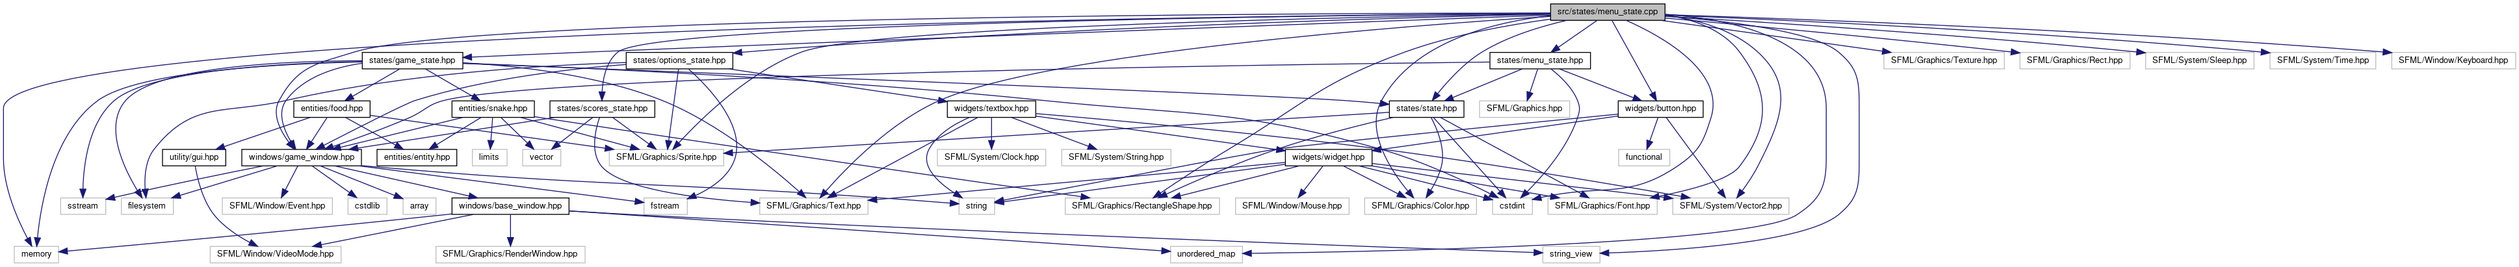
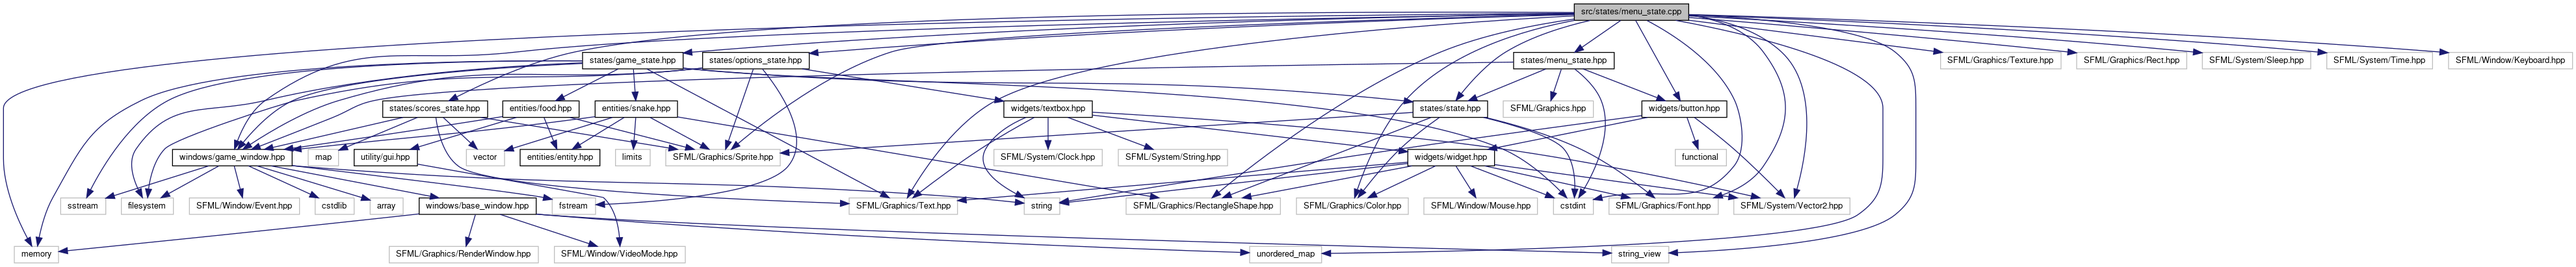
Update docs

diff --git a/docs/scores__state_8hpp_source.html b/docs/scores__state_8hpp_source.html
@@ -94,52 +94,63 @@ $(function() {
 <div class="line"><a name="l00028"></a><span class="lineno">   28</span>&#160; </div>
 <div class="line"><a name="l00029"></a><span class="lineno">   29</span>&#160;<span class="comment">// STD</span></div>
 <div class="line"><a name="l00030"></a><span class="lineno">   30</span>&#160;<span class="preprocessor">#include &lt;vector&gt;</span></div>
-<div class="line"><a name="l00031"></a><span class="lineno">   31</span>&#160; </div>
-<div class="line"><a name="l00032"></a><span class="lineno">   32</span>&#160;<span class="keyword">namespace </span><a class="code" href="namespacesnake_1_1state.html">snake::state</a>{</div>
-<div class="line"><a name="l00033"></a><span class="lineno">   33</span>&#160; </div>
-<div class="line"><a name="l00034"></a><span class="lineno">   34</span>&#160;    <span class="comment">//====================================================</span></div>
-<div class="line"><a name="l00035"></a><span class="lineno">   35</span>&#160;    <span class="comment">//     OptionsState</span></div>
-<div class="line"><a name="l00036"></a><span class="lineno">   36</span>&#160;    <span class="comment">//====================================================</span></div>
-<div class="line"><a name="l00041"></a><span class="lineno"><a class="line" href="classsnake_1_1state_1_1ScoresState.html">   41</a></span>&#160;<span class="comment"></span>    <span class="keyword">class </span><a class="code" href="classsnake_1_1state_1_1ScoresState.html">ScoresState</a>: <span class="keyword">public</span> <a class="code" href="classsnake_1_1state_1_1State.html">State</a>{</div>
-<div class="line"><a name="l00042"></a><span class="lineno">   42</span>&#160; </div>
-<div class="line"><a name="l00043"></a><span class="lineno">   43</span>&#160;        <span class="comment">//====================================================</span></div>
-<div class="line"><a name="l00044"></a><span class="lineno">   44</span>&#160;        <span class="comment">//     Public</span></div>
-<div class="line"><a name="l00045"></a><span class="lineno">   45</span>&#160;        <span class="comment">//====================================================</span></div>
-<div class="line"><a name="l00046"></a><span class="lineno">   46</span>&#160;        <span class="keyword">public</span>:</div>
-<div class="line"><a name="l00047"></a><span class="lineno">   47</span>&#160; </div>
-<div class="line"><a name="l00048"></a><span class="lineno">   48</span>&#160;            <span class="comment">// Constructors</span></div>
-<div class="line"><a name="l00049"></a><span class="lineno">   49</span>&#160;            <a class="code" href="classsnake_1_1state_1_1ScoresState.html#a54d0f8285bfaeec32e8f9e473cd1569e">ScoresState</a>( <a class="code" href="classsnake_1_1window_1_1GameWindow.html">window::GameWindow</a>* game_window );</div>
-<div class="line"><a name="l00050"></a><span class="lineno">   50</span>&#160; </div>
-<div class="line"><a name="l00051"></a><span class="lineno">   51</span>&#160;            <span class="comment">// Methods</span></div>
-<div class="line"><a name="l00052"></a><span class="lineno">   52</span>&#160;            <span class="keywordtype">void</span> <a class="code" href="classsnake_1_1state_1_1ScoresState.html#a06364af438238b8dfb681b1bf95ef826">drawState</a>() <span class="keyword">override</span>;</div>
-<div class="line"><a name="l00053"></a><span class="lineno">   53</span>&#160; </div>
-<div class="line"><a name="l00054"></a><span class="lineno">   54</span>&#160;        <span class="comment">//====================================================</span></div>
-<div class="line"><a name="l00055"></a><span class="lineno">   55</span>&#160;        <span class="comment">//     Private</span></div>
-<div class="line"><a name="l00056"></a><span class="lineno">   56</span>&#160;        <span class="comment">//====================================================</span></div>
-<div class="line"><a name="l00057"></a><span class="lineno">   57</span>&#160;        <span class="keyword">private</span>:</div>
-<div class="line"><a name="l00058"></a><span class="lineno">   58</span>&#160; </div>
-<div class="line"><a name="l00059"></a><span class="lineno">   59</span>&#160;            <span class="comment">// Methods</span></div>
-<div class="line"><a name="l00060"></a><span class="lineno">   60</span>&#160;            <span class="keywordtype">void</span> drawImg();</div>
-<div class="line"><a name="l00061"></a><span class="lineno">   61</span>&#160;            <span class="keywordtype">void</span> drawWidgets() <span class="keyword">override</span>;</div>
-<div class="line"><a name="l00062"></a><span class="lineno">   62</span>&#160;            <span class="keywordtype">void</span> packWidgets() <span class="keyword">override</span>;</div>
-<div class="line"><a name="l00063"></a><span class="lineno">   63</span>&#160; </div>
-<div class="line"><a name="l00064"></a><span class="lineno">   64</span>&#160;            <span class="comment">// Variables</span></div>
-<div class="line"><a name="l00065"></a><span class="lineno">   65</span>&#160;            <a class="code" href="classsnake_1_1window_1_1GameWindow.html">window::GameWindow</a>* game_window;</div>
-<div class="line"><a name="l00066"></a><span class="lineno">   66</span>&#160;            sf::Text back_to_menu;</div>
-<div class="line"><a name="l00067"></a><span class="lineno">   67</span>&#160;            std::vector&lt;uint64_t&gt; scores;</div>
-<div class="line"><a name="l00068"></a><span class="lineno">   68</span>&#160;            sf::Sprite gold_trophy;</div>
-<div class="line"><a name="l00069"></a><span class="lineno">   69</span>&#160;            sf::Sprite silver_trophy;</div>
-<div class="line"><a name="l00070"></a><span class="lineno">   70</span>&#160;            sf::Sprite bronze_trophy;</div>
-<div class="line"><a name="l00071"></a><span class="lineno">   71</span>&#160; </div>
-<div class="line"><a name="l00072"></a><span class="lineno">   72</span>&#160;            <span class="comment">// Constants</span></div>
-<div class="line"><a name="l00073"></a><span class="lineno">   73</span>&#160;            <span class="keyword">const</span> uint64_t game_window_size_x = <span class="keyword">this</span> -&gt; game_window -&gt; getSize().x;</div>
-<div class="line"><a name="l00074"></a><span class="lineno">   74</span>&#160;            <span class="keyword">const</span> uint64_t game_window_size_y = <span class="keyword">this</span> -&gt; game_window -&gt; getSize().y;</div>
-<div class="line"><a name="l00075"></a><span class="lineno">   75</span>&#160;    };</div>
-<div class="line"><a name="l00076"></a><span class="lineno">   76</span>&#160;}</div>
-<div class="line"><a name="l00077"></a><span class="lineno">   77</span>&#160; </div>
-<div class="line"><a name="l00078"></a><span class="lineno">   78</span>&#160;<span class="preprocessor">#endif</span></div>
-<div class="ttc" id="aclasssnake_1_1state_1_1ScoresState_html"><div class="ttname"><a href="classsnake_1_1state_1_1ScoresState.html">snake::state::ScoresState</a></div><div class="ttdoc">Class used to create the scores menu.</div><div class="ttdef"><b>Definition:</b> scores_state.hpp:41</div></div>
-<div class="ttc" id="aclasssnake_1_1state_1_1ScoresState_html_a06364af438238b8dfb681b1bf95ef826"><div class="ttname"><a href="classsnake_1_1state_1_1ScoresState.html#a06364af438238b8dfb681b1bf95ef826">snake::state::ScoresState::drawState</a></div><div class="ttdeci">void drawState() override</div><div class="ttdoc">Method used to draw the current state.</div><div class="ttdef"><b>Definition:</b> scores_state.cpp:74</div></div>
+<div class="line"><a name="l00031"></a><span class="lineno">   31</span>&#160;<span class="preprocessor">#include &lt;map&gt;</span></div>
+<div class="line"><a name="l00032"></a><span class="lineno">   32</span>&#160; </div>
+<div class="line"><a name="l00033"></a><span class="lineno">   33</span>&#160;<span class="keyword">namespace </span><a class="code" href="namespacesnake_1_1state.html">snake::state</a>{</div>
+<div class="line"><a name="l00034"></a><span class="lineno">   34</span>&#160; </div>
+<div class="line"><a name="l00035"></a><span class="lineno">   35</span>&#160;    <span class="comment">//====================================================</span></div>
+<div class="line"><a name="l00036"></a><span class="lineno">   36</span>&#160;    <span class="comment">//     OptionsState</span></div>
+<div class="line"><a name="l00037"></a><span class="lineno">   37</span>&#160;    <span class="comment">//====================================================</span></div>
+<div class="line"><a name="l00042"></a><span class="lineno"><a class="line" href="classsnake_1_1state_1_1ScoresState.html">   42</a></span>&#160;<span class="comment"></span>    <span class="keyword">class </span><a class="code" href="classsnake_1_1state_1_1ScoresState.html">ScoresState</a>: <span class="keyword">public</span> <a class="code" href="classsnake_1_1state_1_1State.html">State</a>{</div>
+<div class="line"><a name="l00043"></a><span class="lineno">   43</span>&#160; </div>
+<div class="line"><a name="l00044"></a><span class="lineno">   44</span>&#160;        <span class="comment">//====================================================</span></div>
+<div class="line"><a name="l00045"></a><span class="lineno">   45</span>&#160;        <span class="comment">//     Public</span></div>
+<div class="line"><a name="l00046"></a><span class="lineno">   46</span>&#160;        <span class="comment">//====================================================</span></div>
+<div class="line"><a name="l00047"></a><span class="lineno">   47</span>&#160;        <span class="keyword">public</span>:</div>
+<div class="line"><a name="l00048"></a><span class="lineno">   48</span>&#160; </div>
+<div class="line"><a name="l00049"></a><span class="lineno">   49</span>&#160;            <span class="comment">// Constructors</span></div>
+<div class="line"><a name="l00050"></a><span class="lineno">   50</span>&#160;            <a class="code" href="classsnake_1_1state_1_1ScoresState.html#a54d0f8285bfaeec32e8f9e473cd1569e">ScoresState</a>( <a class="code" href="classsnake_1_1window_1_1GameWindow.html">window::GameWindow</a>* game_window );</div>
+<div class="line"><a name="l00051"></a><span class="lineno">   51</span>&#160; </div>
+<div class="line"><a name="l00052"></a><span class="lineno">   52</span>&#160;            <span class="comment">// Methods</span></div>
+<div class="line"><a name="l00053"></a><span class="lineno">   53</span>&#160;            <span class="keywordtype">void</span> <a class="code" href="classsnake_1_1state_1_1ScoresState.html#a06364af438238b8dfb681b1bf95ef826">drawState</a>() <span class="keyword">override</span>;</div>
+<div class="line"><a name="l00054"></a><span class="lineno">   54</span>&#160; </div>
+<div class="line"><a name="l00055"></a><span class="lineno">   55</span>&#160;        <span class="comment">//====================================================</span></div>
+<div class="line"><a name="l00056"></a><span class="lineno">   56</span>&#160;        <span class="comment">//     Private</span></div>
+<div class="line"><a name="l00057"></a><span class="lineno">   57</span>&#160;        <span class="comment">//====================================================</span></div>
+<div class="line"><a name="l00058"></a><span class="lineno">   58</span>&#160;        <span class="keyword">private</span>:</div>
+<div class="line"><a name="l00059"></a><span class="lineno">   59</span>&#160; </div>
+<div class="line"><a name="l00060"></a><span class="lineno">   60</span>&#160;            <span class="comment">// Methods</span></div>
+<div class="line"><a name="l00061"></a><span class="lineno">   61</span>&#160;            <span class="keywordtype">void</span> drawImg();</div>
+<div class="line"><a name="l00062"></a><span class="lineno">   62</span>&#160;            <span class="keywordtype">void</span> drawWidgets() <span class="keyword">override</span>;</div>
+<div class="line"><a name="l00063"></a><span class="lineno">   63</span>&#160;            <span class="keywordtype">void</span> packWidgets() <span class="keyword">override</span>;</div>
+<div class="line"><a name="l00064"></a><span class="lineno">   64</span>&#160;            std::multimap&lt;uint64_t, std::string, std::greater&lt;int64_t&gt;&gt; getScoresMap();</div>
+<div class="line"><a name="l00065"></a><span class="lineno">   65</span>&#160;            <span class="keywordtype">void</span> initStrings();</div>
+<div class="line"><a name="l00066"></a><span class="lineno">   66</span>&#160; </div>
+<div class="line"><a name="l00067"></a><span class="lineno">   67</span>&#160;            <span class="comment">// Variables</span></div>
+<div class="line"><a name="l00068"></a><span class="lineno">   68</span>&#160;            <a class="code" href="classsnake_1_1window_1_1GameWindow.html">window::GameWindow</a>* game_window;</div>
+<div class="line"><a name="l00069"></a><span class="lineno">   69</span>&#160;            sf::Text back_to_menu;</div>
+<div class="line"><a name="l00070"></a><span class="lineno">   70</span>&#160;            sf::Text first_player;</div>
+<div class="line"><a name="l00071"></a><span class="lineno">   71</span>&#160;            sf::Text second_player;</div>
+<div class="line"><a name="l00072"></a><span class="lineno">   72</span>&#160;            sf::Text third_player;</div>
+<div class="line"><a name="l00073"></a><span class="lineno">   73</span>&#160;            std::multimap&lt;uint64_t, std::string, std::greater&lt;int64_t&gt;&gt; scores_map;</div>
+<div class="line"><a name="l00074"></a><span class="lineno">   74</span>&#160;            sf::Sprite gold_trophy;</div>
+<div class="line"><a name="l00075"></a><span class="lineno">   75</span>&#160;            sf::Sprite silver_trophy;</div>
+<div class="line"><a name="l00076"></a><span class="lineno">   76</span>&#160;            sf::Sprite bronze_trophy;</div>
+<div class="line"><a name="l00077"></a><span class="lineno">   77</span>&#160;            sf::Sprite title;</div>
+<div class="line"><a name="l00078"></a><span class="lineno">   78</span>&#160;            std::string string_first;</div>
+<div class="line"><a name="l00079"></a><span class="lineno">   79</span>&#160;            std::string string_second;</div>
+<div class="line"><a name="l00080"></a><span class="lineno">   80</span>&#160;            std::string string_third;</div>
+<div class="line"><a name="l00081"></a><span class="lineno">   81</span>&#160;            std::multimap&lt;uint64_t, std::string, std::greater&lt;int64_t&gt;&gt;::iterator iterator;</div>
+<div class="line"><a name="l00082"></a><span class="lineno">   82</span>&#160; </div>
+<div class="line"><a name="l00083"></a><span class="lineno">   83</span>&#160;            <span class="comment">// Constants</span></div>
+<div class="line"><a name="l00084"></a><span class="lineno">   84</span>&#160;            <span class="keyword">const</span> uint64_t game_window_size_x = <span class="keyword">this</span> -&gt; game_window -&gt; getSize().x;</div>
+<div class="line"><a name="l00085"></a><span class="lineno">   85</span>&#160;            <span class="keyword">const</span> uint64_t game_window_size_y = <span class="keyword">this</span> -&gt; game_window -&gt; getSize().y;</div>
+<div class="line"><a name="l00086"></a><span class="lineno">   86</span>&#160;    };</div>
+<div class="line"><a name="l00087"></a><span class="lineno">   87</span>&#160;}</div>
+<div class="line"><a name="l00088"></a><span class="lineno">   88</span>&#160; </div>
+<div class="line"><a name="l00089"></a><span class="lineno">   89</span>&#160;<span class="preprocessor">#endif</span></div>
+<div class="ttc" id="aclasssnake_1_1state_1_1ScoresState_html"><div class="ttname"><a href="classsnake_1_1state_1_1ScoresState.html">snake::state::ScoresState</a></div><div class="ttdoc">Class used to create the scores menu.</div><div class="ttdef"><b>Definition:</b> scores_state.hpp:42</div></div>
+<div class="ttc" id="aclasssnake_1_1state_1_1ScoresState_html_a06364af438238b8dfb681b1bf95ef826"><div class="ttname"><a href="classsnake_1_1state_1_1ScoresState.html#a06364af438238b8dfb681b1bf95ef826">snake::state::ScoresState::drawState</a></div><div class="ttdeci">void drawState() override</div><div class="ttdoc">Method used to draw the current state.</div><div class="ttdef"><b>Definition:</b> scores_state.cpp:113</div></div>
 <div class="ttc" id="aclasssnake_1_1state_1_1ScoresState_html_a54d0f8285bfaeec32e8f9e473cd1569e"><div class="ttname"><a href="classsnake_1_1state_1_1ScoresState.html#a54d0f8285bfaeec32e8f9e473cd1569e">snake::state::ScoresState::ScoresState</a></div><div class="ttdeci">ScoresState(window::GameWindow *game_window)</div><div class="ttdoc">Constructor of the ScoresState class.</div><div class="ttdef"><b>Definition:</b> scores_state.cpp:56</div></div>
 <div class="ttc" id="aclasssnake_1_1state_1_1State_html"><div class="ttname"><a href="classsnake_1_1state_1_1State.html">snake::state::State</a></div><div class="ttdoc">Class used to define base state for the other states.</div><div class="ttdef"><b>Definition:</b> state.hpp:45</div></div>
 <div class="ttc" id="aclasssnake_1_1window_1_1GameWindow_html"><div class="ttname"><a href="classsnake_1_1window_1_1GameWindow.html">snake::window::GameWindow</a></div><div class="ttdoc">Class used to create the game window.</div><div class="ttdef"><b>Definition:</b> game_window.hpp:45</div></div>

diff --git a/docs/menu__state_8cpp.html b/docs/menu__state_8cpp.html
@@ -100,52 +100,53 @@ Include dependency graph for menu_state.cpp:</div>
 <div class="dyncontent">
 <div class="center"><img src="menu__state_8cpp__incl.png" border="0" usemap="#asrc_2states_2menu__state_8cpp" alt=""/></div>
 <map name="asrc_2states_2menu__state_8cpp" id="asrc_2states_2menu__state_8cpp">
-<area shape="rect" title=" " alt="" coords="2385,5,2561,32"/>
-<area shape="rect" href="game__window_8hpp.html" title=" " alt="" coords="372,229,556,256"/>
+<area shape="rect" title=" " alt="" coords="2421,5,2597,32"/>
+<area shape="rect" href="game__window_8hpp.html" title=" " alt="" coords="265,229,449,256"/>
 <area shape="rect" title=" " alt="" coords="22,379,90,405"/>
-<area shape="rect" title=" " alt="" coords="1801,379,1911,405"/>
-<area shape="rect" title=" " alt="" coords="2373,379,2461,405"/>
-<area shape="rect" href="state_8hpp.html" title=" " alt="" coords="2137,155,2252,181"/>
-<area shape="rect" title=" " alt="" coords="2099,304,2271,331"/>
-<area shape="rect" title=" " alt="" coords="2381,304,2549,331"/>
-<area shape="rect" title=" " alt="" coords="937,229,1113,256"/>
-<area shape="rect" title=" " alt="" coords="1639,304,1876,331"/>
-<area shape="rect" title=" " alt="" coords="2296,304,2357,331"/>
-<area shape="rect" href="menu__state_8hpp.html" title=" " alt="" coords="2292,80,2447,107"/>
-<area shape="rect" href="button_8hpp.html" title=" " alt="" coords="2489,155,2620,181"/>
-<area shape="rect" title=" " alt="" coords="1169,304,1335,331"/>
-<area shape="rect" title=" " alt="" coords="2573,304,2752,331"/>
-<area shape="rect" href="game__state_8hpp.html" title=" " alt="" coords="557,80,712,107"/>
-<area shape="rect" href="options__state_8hpp.html" title=" " alt="" coords="963,80,1127,107"/>
-<area shape="rect" href="scores__state_8hpp.html" title=" " alt="" coords="846,155,1007,181"/>
-<area shape="rect" title=" " alt="" coords="2898,80,3083,107"/>
-<area shape="rect" title=" " alt="" coords="3107,80,3277,107"/>
-<area shape="rect" title=" " alt="" coords="3301,80,3467,107"/>
-<area shape="rect" title=" " alt="" coords="3492,80,3655,107"/>
-<area shape="rect" title=" " alt="" coords="3679,80,3870,107"/>
-<area shape="rect" href="base__window_8hpp.html" title=" " alt="" coords="695,304,875,331"/>
-<area shape="rect" title=" " alt="" coords="342,304,511,331"/>
+<area shape="rect" title=" " alt="" coords="1922,379,2033,405"/>
+<area shape="rect" title=" " alt="" coords="2479,379,2567,405"/>
+<area shape="rect" href="state_8hpp.html" title=" " alt="" coords="2173,155,2288,181"/>
+<area shape="rect" title=" " alt="" coords="1994,304,2166,331"/>
+<area shape="rect" title=" " alt="" coords="2475,304,2643,331"/>
+<area shape="rect" title=" " alt="" coords="1024,229,1200,256"/>
+<area shape="rect" title=" " alt="" coords="1732,304,1969,331"/>
+<area shape="rect" title=" " alt="" coords="2389,304,2451,331"/>
+<area shape="rect" href="menu__state_8hpp.html" title=" " alt="" coords="2328,80,2483,107"/>
+<area shape="rect" href="button_8hpp.html" title=" " alt="" coords="2525,155,2656,181"/>
+<area shape="rect" title=" " alt="" coords="1306,304,1473,331"/>
+<area shape="rect" title=" " alt="" coords="2667,304,2845,331"/>
+<area shape="rect" href="game__state_8hpp.html" title=" " alt="" coords="896,80,1051,107"/>
+<area shape="rect" href="options__state_8hpp.html" title=" " alt="" coords="1081,80,1245,107"/>
+<area shape="rect" href="scores__state_8hpp.html" title=" " alt="" coords="589,155,750,181"/>
+<area shape="rect" title=" " alt="" coords="2985,80,3170,107"/>
+<area shape="rect" title=" " alt="" coords="3194,80,3363,107"/>
+<area shape="rect" title=" " alt="" coords="3387,80,3554,107"/>
+<area shape="rect" title=" " alt="" coords="3579,80,3741,107"/>
+<area shape="rect" title=" " alt="" coords="3766,80,3957,107"/>
+<area shape="rect" href="base__window_8hpp.html" title=" " alt="" coords="645,304,825,331"/>
+<area shape="rect" title=" " alt="" coords="291,304,461,331"/>
 <area shape="rect" title=" " alt="" coords="93,304,163,331"/>
 <area shape="rect" title=" " alt="" coords="187,304,267,331"/>
-<area shape="rect" title=" " alt="" coords="535,304,595,331"/>
-<area shape="rect" title=" " alt="" coords="1475,304,1530,331"/>
-<area shape="rect" title=" " alt="" coords="991,304,1057,331"/>
-<area shape="rect" title=" " alt="" coords="620,304,671,331"/>
-<area shape="rect" title=" " alt="" coords="671,379,900,405"/>
-<area shape="rect" title=" " alt="" coords="323,379,525,405"/>
-<area shape="rect" title=" " alt="" coords="2276,155,2415,181"/>
-<area shape="rect" href="widget_8hpp.html" title=" " alt="" coords="1977,229,2111,256"/>
-<area shape="rect" title=" " alt="" coords="2490,229,2569,256"/>
-<area shape="rect" title=" " alt="" coords="1901,304,2075,331"/>
-<area shape="rect" href="snake_8hpp.html" title=" " alt="" coords="695,155,822,181"/>
-<area shape="rect" href="food_8hpp.html" title=" " alt="" coords="452,155,569,181"/>
-<area shape="rect" href="entity_8hpp.html" title=" " alt="" coords="580,229,703,256"/>
-<area shape="rect" title=" " alt="" coords="804,229,863,256"/>
-<area shape="rect" title=" " alt="" coords="727,229,780,256"/>
-<area shape="rect" href="gui_8hpp.html" title=" " alt="" coords="250,229,347,256"/>
-<area shape="rect" href="textbox_8hpp.html" title=" " alt="" coords="1457,155,1593,181"/>
-<area shape="rect" title=" " alt="" coords="1442,229,1609,256"/>
-<area shape="rect" title=" " alt="" coords="1633,229,1801,256"/>
+<area shape="rect" title=" " alt="" coords="485,304,545,331"/>
+<area shape="rect" title=" " alt="" coords="1575,304,1630,331"/>
+<area shape="rect" title=" " alt="" coords="849,304,916,331"/>
+<area shape="rect" title=" " alt="" coords="569,304,620,331"/>
+<area shape="rect" title=" " alt="" coords="599,379,828,405"/>
+<area shape="rect" title=" " alt="" coords="853,379,1054,405"/>
+<area shape="rect" title=" " alt="" coords="2312,155,2451,181"/>
+<area shape="rect" href="widget_8hpp.html" title=" " alt="" coords="2165,229,2299,256"/>
+<area shape="rect" title=" " alt="" coords="2577,229,2655,256"/>
+<area shape="rect" title=" " alt="" coords="2190,304,2365,331"/>
+<area shape="rect" href="snake_8hpp.html" title=" " alt="" coords="915,155,1042,181"/>
+<area shape="rect" href="food_8hpp.html" title=" " alt="" coords="773,155,891,181"/>
+<area shape="rect" href="entity_8hpp.html" title=" " alt="" coords="800,229,923,256"/>
+<area shape="rect" title=" " alt="" coords="717,229,776,256"/>
+<area shape="rect" title=" " alt="" coords="947,229,1000,256"/>
+<area shape="rect" href="gui_8hpp.html" title=" " alt="" coords="545,229,642,256"/>
+<area shape="rect" href="textbox_8hpp.html" title=" " alt="" coords="1544,155,1680,181"/>
+<area shape="rect" title=" " alt="" coords="1529,229,1695,256"/>
+<area shape="rect" title=" " alt="" coords="1720,229,1888,256"/>
+<area shape="rect" title=" " alt="" coords="474,229,521,256"/>
 </map>
 </div>
 </div><table class="memberdecls">

diff --git a/docs/scores__state_8cpp.html b/docs/scores__state_8cpp.html
@@ -91,20 +91,20 @@ Include dependency graph for scores_state.cpp:</div>
 <div class="dyncontent">
 <div class="center"><img src="scores__state_8cpp__incl.png" border="0" usemap="#asrc_2states_2scores__state_8cpp" alt=""/></div>
 <map name="asrc_2states_2scores__state_8cpp" id="asrc_2states_2scores__state_8cpp">
-<area shape="rect" title=" " alt="" coords="737,5,920,32"/>
+<area shape="rect" title=" " alt="" coords="822,5,1005,32"/>
 <area shape="rect" href="game__window_8hpp.html" title=" " alt="" coords="975,155,1159,181"/>
 <area shape="rect" title=" " alt="" coords="161,304,229,331"/>
 <area shape="rect" title=" " alt="" coords="228,229,295,256"/>
-<area shape="rect" href="state_8hpp.html" title=" " alt="" coords="440,80,555,107"/>
+<area shape="rect" href="state_8hpp.html" title=" " alt="" coords="414,80,528,107"/>
 <area shape="rect" title=" " alt="" coords="40,155,212,181"/>
 <area shape="rect" title=" " alt="" coords="775,155,951,181"/>
 <area shape="rect" title=" " alt="" coords="514,155,751,181"/>
-<area shape="rect" href="scores__state_8hpp.html" title=" " alt="" coords="866,80,1028,107"/>
-<area shape="rect" title=" " alt="" coords="1265,155,1432,181"/>
-<area shape="rect" title=" " alt="" coords="1104,80,1273,107"/>
-<area shape="rect" title=" " alt="" coords="1297,80,1482,107"/>
-<area shape="rect" title=" " alt="" coords="1507,80,1686,107"/>
-<area shape="rect" title=" " alt="" coords="1710,80,1784,107"/>
+<area shape="rect" href="scores__state_8hpp.html" title=" " alt="" coords="952,80,1113,107"/>
+<area shape="rect" title=" " alt="" coords="1337,155,1504,181"/>
+<area shape="rect" title=" " alt="" coords="1189,80,1358,107"/>
+<area shape="rect" title=" " alt="" coords="1382,80,1568,107"/>
+<area shape="rect" title=" " alt="" coords="1592,80,1771,107"/>
+<area shape="rect" title=" " alt="" coords="1795,80,1870,107"/>
 <area shape="rect" href="base__window_8hpp.html" title=" " alt="" coords="585,229,765,256"/>
 <area shape="rect" title=" " alt="" coords="789,229,958,256"/>
 <area shape="rect" title=" " alt="" coords="983,229,1052,256"/>
@@ -116,9 +116,10 @@ Include dependency graph for scores_state.cpp:</div>
 <area shape="rect" title=" " alt="" coords="694,304,896,331"/>
 <area shape="rect" title=" " alt="" coords="920,304,1030,331"/>
 <area shape="rect" title=" " alt="" coords="328,304,416,331"/>
-<area shape="rect" title=" " alt="" coords="236,155,404,181"/>
-<area shape="rect" title=" " alt="" coords="428,155,490,181"/>
-<area shape="rect" title=" " alt="" coords="1183,155,1242,181"/>
+<area shape="rect" title=" " alt="" coords="322,155,490,181"/>
+<area shape="rect" title=" " alt="" coords="236,155,298,181"/>
+<area shape="rect" title=" " alt="" coords="1255,155,1314,181"/>
+<area shape="rect" title=" " alt="" coords="1184,155,1230,181"/>
 </map>
 </div>
 </div><table class="memberdecls">

diff --git a/docs/scores__state_8hpp.html b/docs/scores__state_8hpp.html
@@ -79,16 +79,18 @@ $(function() {
 <code>#include &lt;SFML/Graphics/Text.hpp&gt;</code><br />
 <code>#include &lt;SFML/Graphics/Sprite.hpp&gt;</code><br />
 <code>#include &lt;vector&gt;</code><br />
+<code>#include &lt;map&gt;</code><br />
 </div><div class="textblock"><div class="dynheader">
 Include dependency graph for scores_state.hpp:</div>
 <div class="dyncontent">
 <div class="center"><img src="scores__state_8hpp__incl.png" border="0" usemap="#ainclude_2states_2scores__state_8hpp" alt=""/></div>
 <map name="ainclude_2states_2scores__state_8hpp" id="ainclude_2states_2scores__state_8hpp">
-<area shape="rect" title=" " alt="" coords="1231,5,1377,47"/>
+<area shape="rect" title=" " alt="" coords="1329,5,1476,47"/>
 <area shape="rect" href="game__window_8hpp.html" title=" " alt="" coords="915,95,1099,121"/>
 <area shape="rect" title=" " alt="" coords="1123,95,1290,121"/>
 <area shape="rect" title=" " alt="" coords="1315,95,1491,121"/>
 <area shape="rect" title=" " alt="" coords="1515,95,1573,121"/>
+<area shape="rect" title=" " alt="" coords="1598,95,1645,121"/>
 <area shape="rect" href="base__window_8hpp.html" title=" " alt="" coords="429,169,609,196"/>
 <area shape="rect" title=" " alt="" coords="633,169,802,196"/>
 <area shape="rect" title=" " alt="" coords="827,169,896,196"/>
